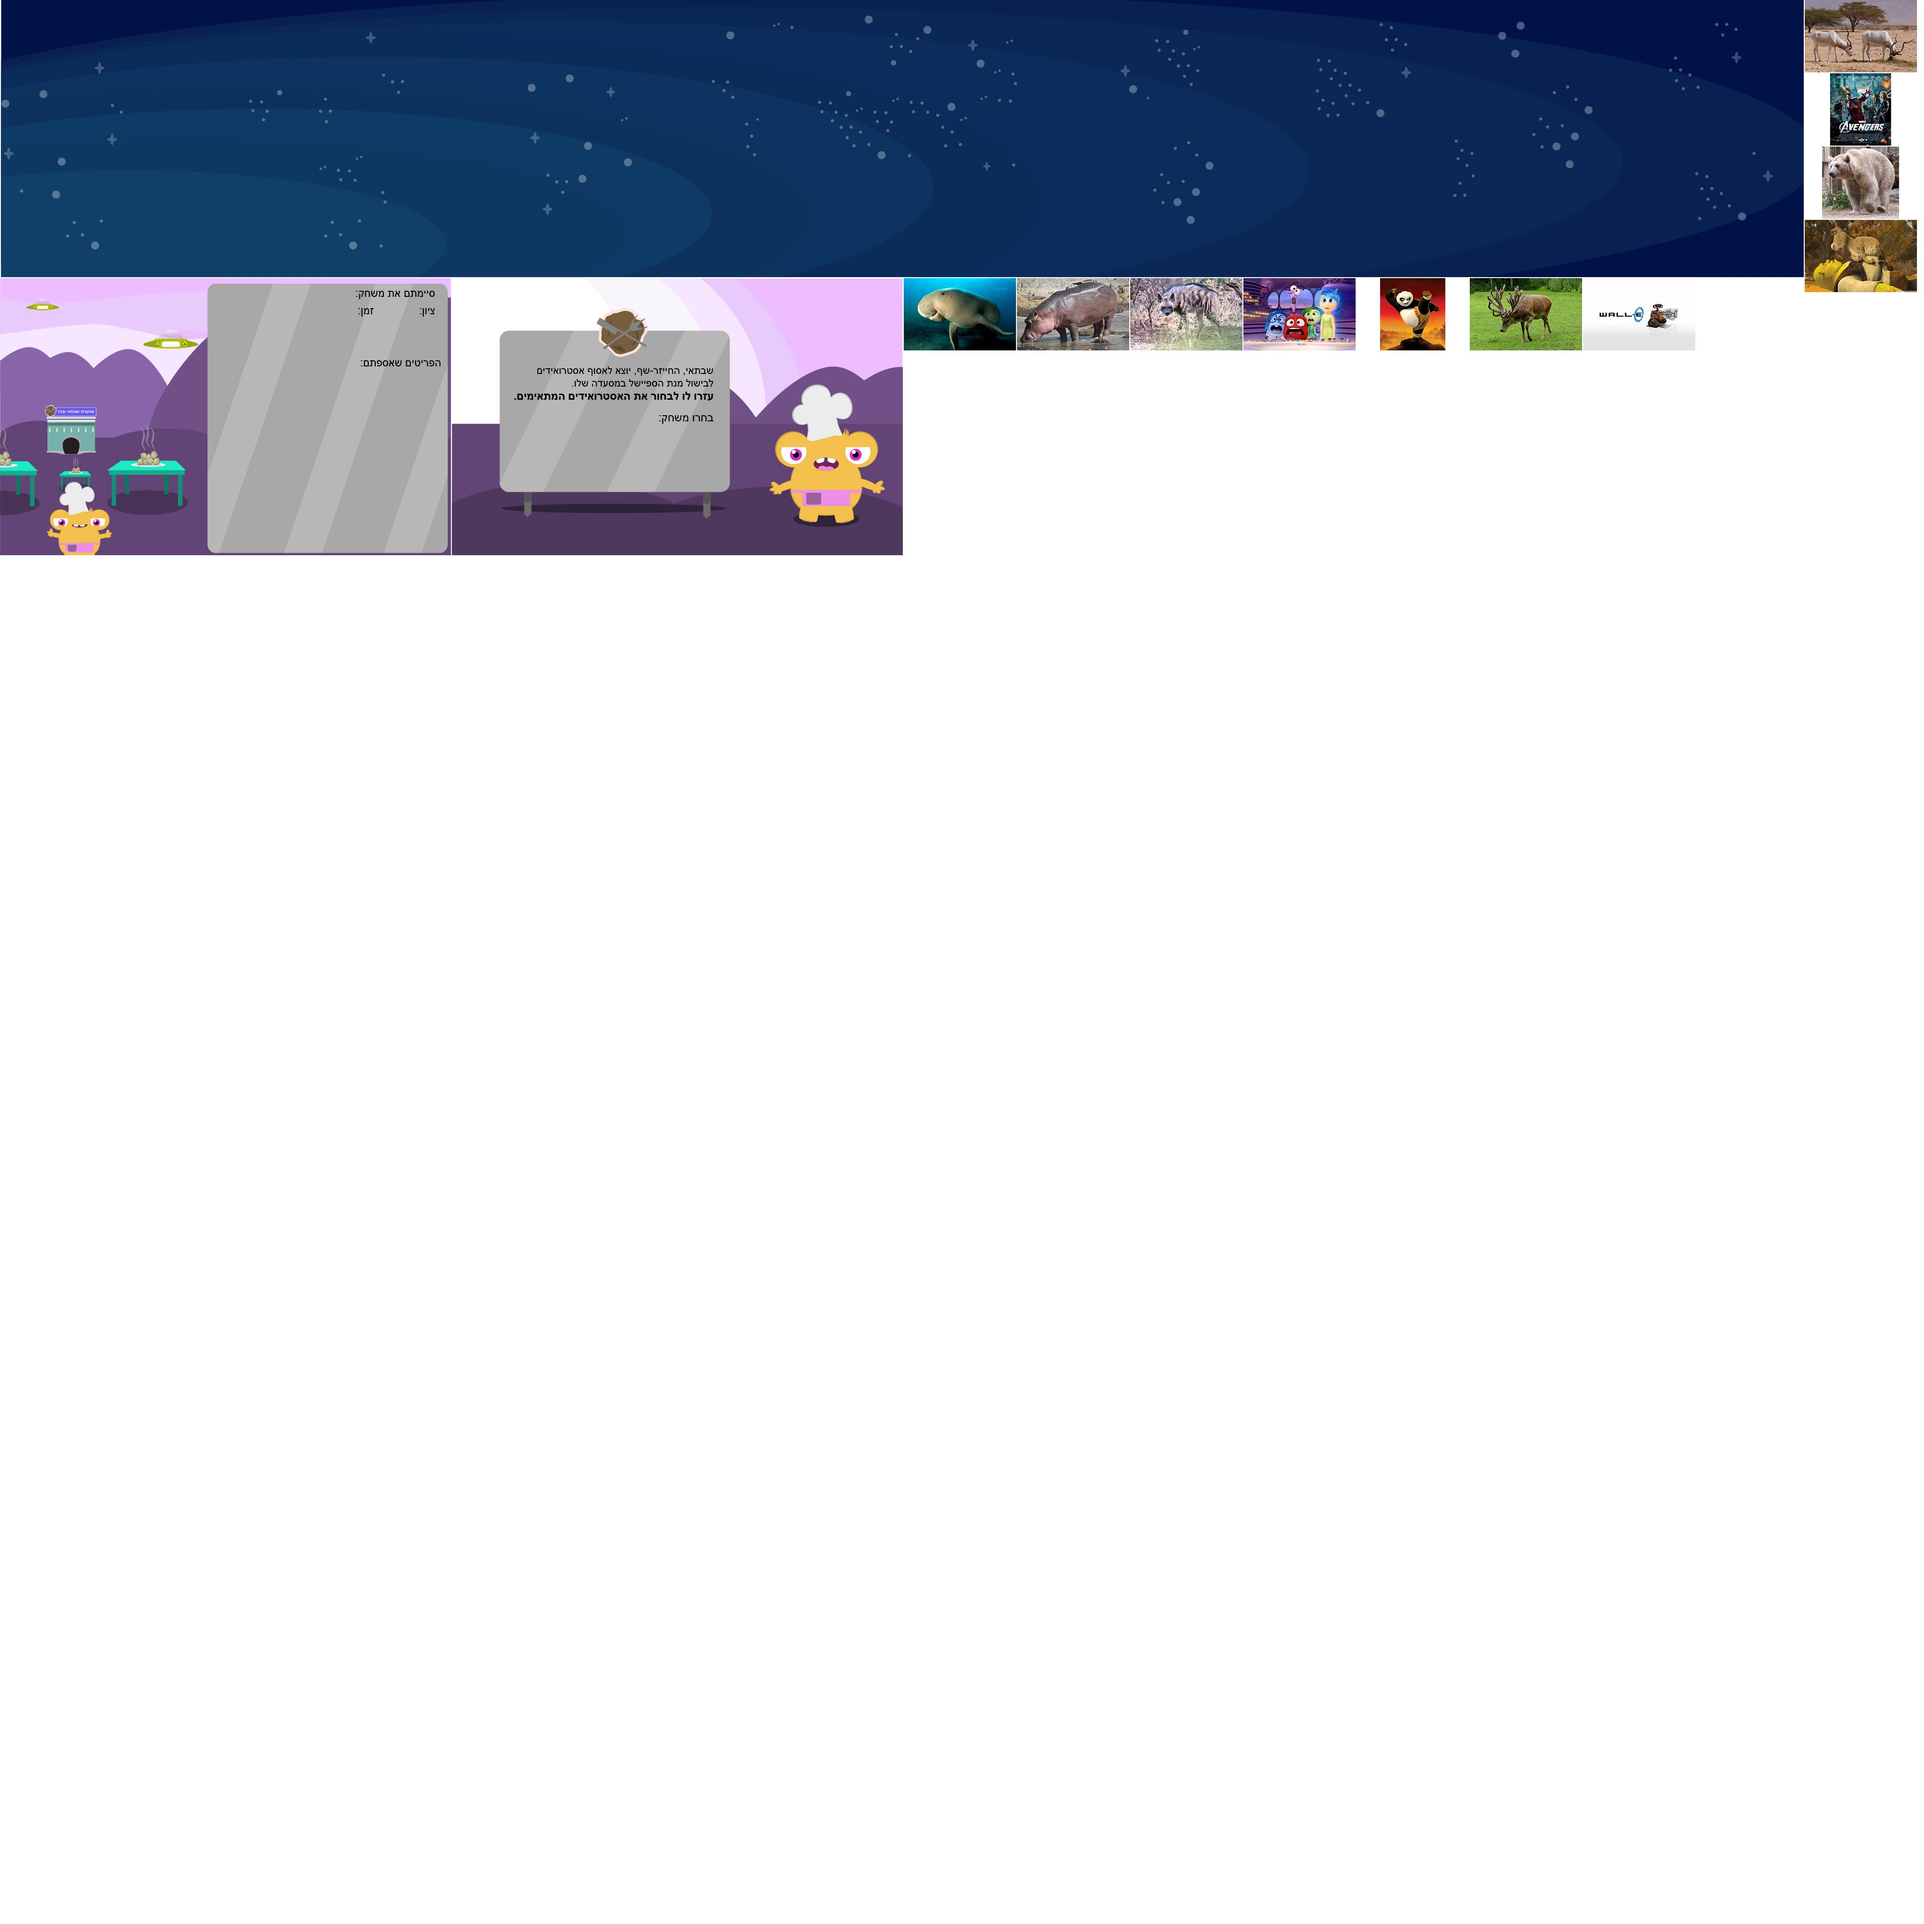
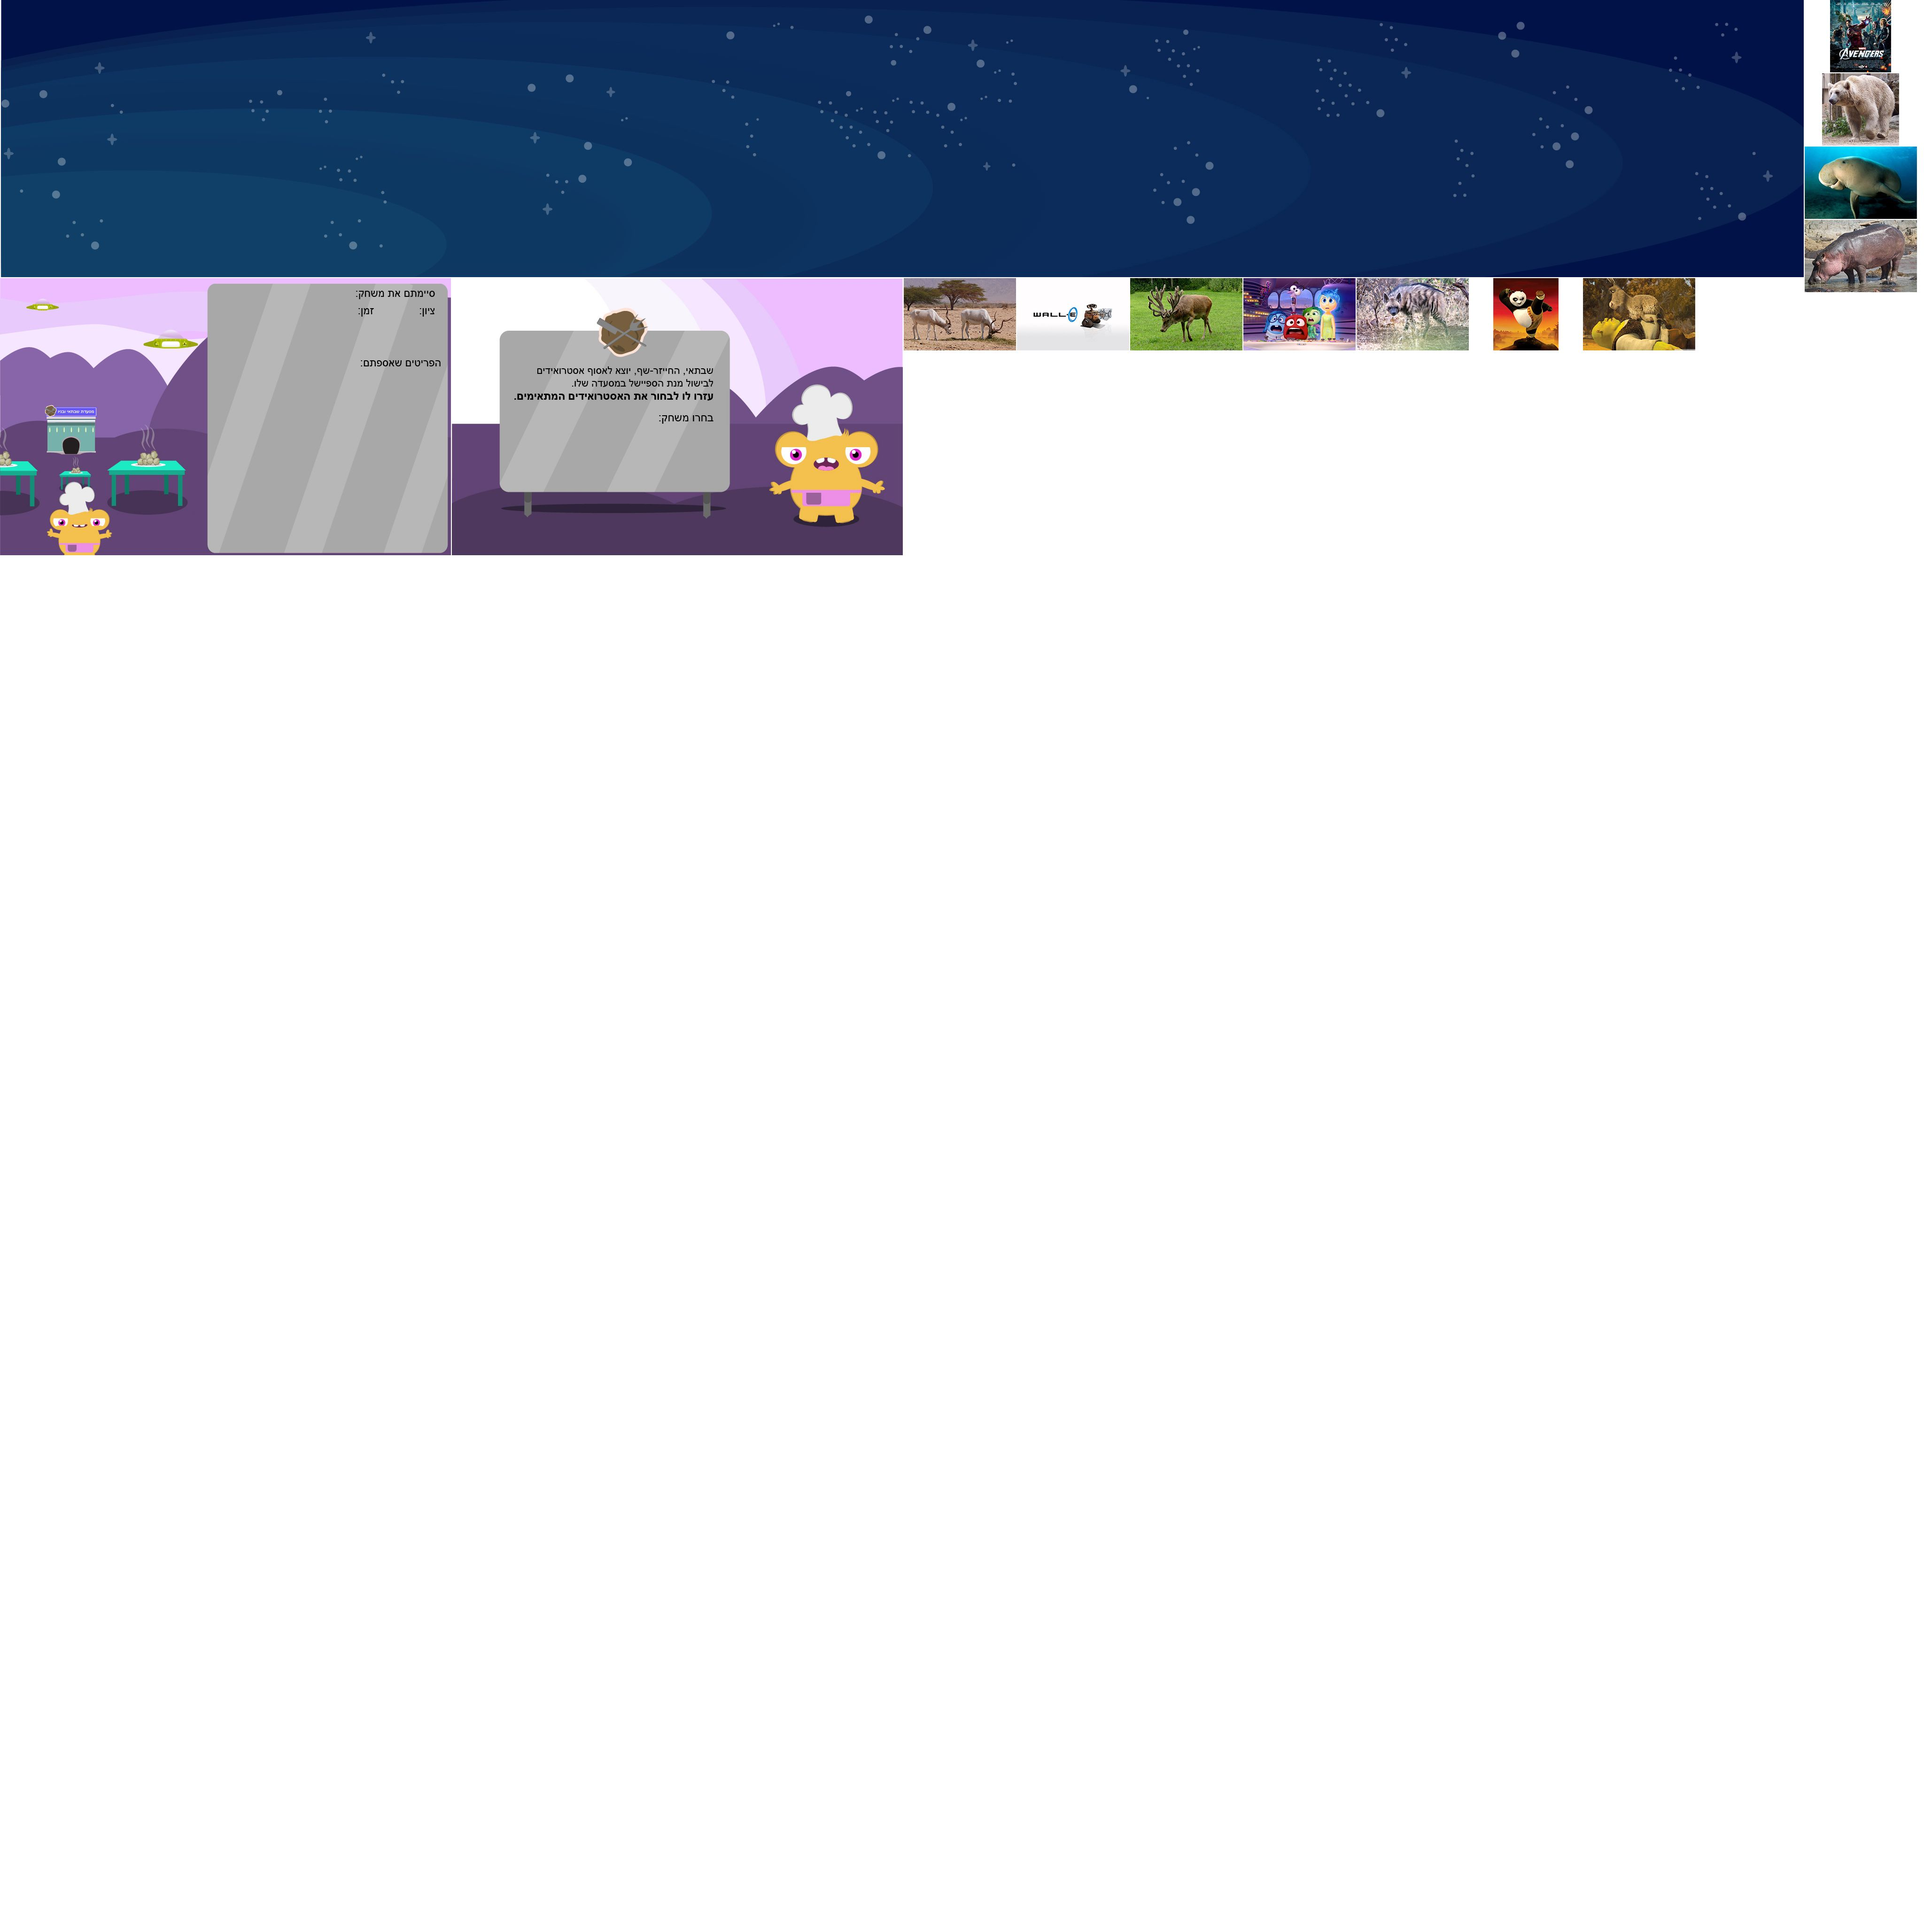
Add files via upload

Changed region(s): [[0.6875, 0.125, 0.9062, 0.1875], [0.4688, 0.125, 0.6562, 0.1875], [0.9375, 0.0, 1.0, 0.1562]]

diff --git a/astoids.js b/astoids.js
@@ -8,8 +8,8 @@ var loadedGoogleCount = 0;
 var gFontsUpdateCacheList = [];
 var tFontsUpdateCacheList = [];
 lib.ssMetadata = [
-		{name:"astoids_atlas_P_", frames: [[0,1114,306,238],[0,0,960,590],[1639,517,76,39],[1525,526,34,34],[962,475,203,64],[0,592,921,520],[1447,476,76,79],[1167,475,138,79],[1307,476,138,79],[962,541,202,48],[1525,476,112,48],[1639,476,106,39],[923,891,383,473],[962,0,395,473],[1359,0,388,474],[923,592,806,297],[1166,556,25,28],[1561,543,25,28],[1588,543,25,28],[1615,543,17,31],[1561,526,67,15]]},
-		{name:"astoids_atlas_NP_", frames: [[3842,156,239,154],[3842,312,239,154],[0,0,3840,590],[3842,0,239,154],[0,592,960,590],[1924,592,239,154],[2165,592,239,154],[2647,592,239,154],[2888,592,239,154],[2406,592,239,154],[3842,468,239,154],[962,592,960,590],[3370,592,239,154],[3129,592,239,154]]}
+		{name:"astoids_atlas_P_", frames: [[0,1114,306,238],[0,0,960,590],[1639,517,76,39],[1525,526,34,34],[962,475,203,64],[0,592,921,520],[1447,476,76,79],[1307,476,138,79],[1167,475,138,79],[962,541,202,48],[1525,476,112,48],[1639,476,106,39],[923,891,383,473],[962,0,395,473],[1359,0,388,474],[923,592,806,297],[1166,556,25,28],[1561,543,25,28],[1588,543,25,28],[1615,543,17,31],[1561,526,67,15]]},
+		{name:"astoids_atlas_NP_", frames: [[3842,0,239,154],[3842,156,239,154],[0,0,3840,590],[1924,592,239,154],[0,592,960,590],[3842,312,239,154],[3842,468,239,154],[2647,592,239,154],[3129,592,239,154],[2888,592,239,154],[3370,592,239,154],[962,592,960,590],[2165,592,239,154],[2406,592,239,154]]}
 ];
 
 
@@ -884,21 +884,12 @@ p.nominalBounds = new cjs.Rectangle(-120,-77,239,154);
 		init();
 		
 		
-		
-		function init() { // שישמש בהמשך לקריאת הסאונד לבמה בעת הצלחה או אי הצלחה idסאונד במשחק ומתן 
-			createjs.Sound.registerSound({
-				id: "false",
-				src: "/sounds/_false.mp3"
-			});
-			createjs.Sound.registerSound({
-				id: "true",
-				src: "/sounds/_true.mp3"
-			});
-			createjs.Sound.registerSound({
-				id: "endgame",
-				src: "/sounds/endgame.mp3"
-			});
+		function init() {
+			createjs.Sound.registerSound("/sounds/_false.mp3", "false");
+			createjs.Sound.registerSound("/sounds/_true.mp3", "true");
+			createjs.Sound.registerSound("/sounds/endgame.mp3", "endgame");
 		}
+		
 		
 		//הפעלת הממשק 
 		startscreenfunc();
@@ -1004,7 +995,7 @@ p.nominalBounds = new cjs.Rectangle(-120,-77,239,154);
 			// הוספת רקע שמיים
 			var background = new lib.big_background();
 			background.x = 0;
-			background.name="background";
+			background.name = "background";
 			stage.addChild(background);
 		
 			//הוספת שבתאי
@@ -1037,13 +1028,13 @@ p.nominalBounds = new cjs.Rectangle(-120,-77,239,154);
 			txt3.y = 510;
 			stage.addChild(txt3);
 		
-			
+		
 			//הוספת מד מהירות
 			var speedbar_txt = new lib.speedbar_txt();
 			speedbar_txt.x = 660;
 			speedbar_txt.y = 510;
 			stage.addChild(speedbar_txt);
-			
+		
 			//כפתור מד מהירות 1 - איטי
 			var speedbar_btn1 = new lib.speedbar_btn1();
 			speedbar_btn1.x = 655;
@@ -1193,7 +1184,7 @@ p.nominalBounds = new cjs.Rectangle(-120,-77,239,154);
 				pause_btn.shadow = null;
 			});
 		
-		//סוף כפתור השהייה
+			//סוף כפתור השהייה
 		
 			//הוספת בר התקדמות
 			var progressback = new lib.progressbar_background();
@@ -1271,8 +1262,8 @@ p.nominalBounds = new cjs.Rectangle(-120,-77,239,154);
 				if (stage.getChildByName("background").x < -2850) {
 					stage.getChildByName("background").x = 0;
 				}
-					
-				
+		
+		
 				//ספירת זמן
 				if (isplay == true) {
 					gametime++;
@@ -1297,7 +1288,7 @@ p.nominalBounds = new cjs.Rectangle(-120,-77,239,154);
 		
 				//הגדרת האירועים שקורים כשפריט יוצא מהפריים בצד שמאל
 				//כלומר פריט שגוי שנלחץ או פריט שלא נלחץ בכלל
-				
+		
 				if (stage.getChildByName("astroid").x < -260) {
 					//איפוס משתנה שינוי גודל אסטרואיד
 					astroscalechange = 0;
@@ -1562,7 +1553,7 @@ p.nominalBounds = new cjs.Rectangle(-120,-77,239,154);
 			endgamebtn.addEventListener("mouseout", function endgamebtn_out() {
 				endgamebtn.shadow = null;
 			});
-			
+		
 			//כפתור שחק שוב
 			var playagainbtn = new lib.playagain_btn();
 			playagainbtn.x = 520;
@@ -1582,7 +1573,7 @@ p.nominalBounds = new cjs.Rectangle(-120,-77,239,154);
 			playagainbtn.addEventListener("mouseout", function playagainbtn_out() {
 				playagainbtn.shadow = null;
 			});
-			
+		
 			//הסבר הכוכביות האדומות
 			var reddottxt = new createjs.Text("", "9pt Arial", "#FF0000");
 			reddottxt.x = 930;
